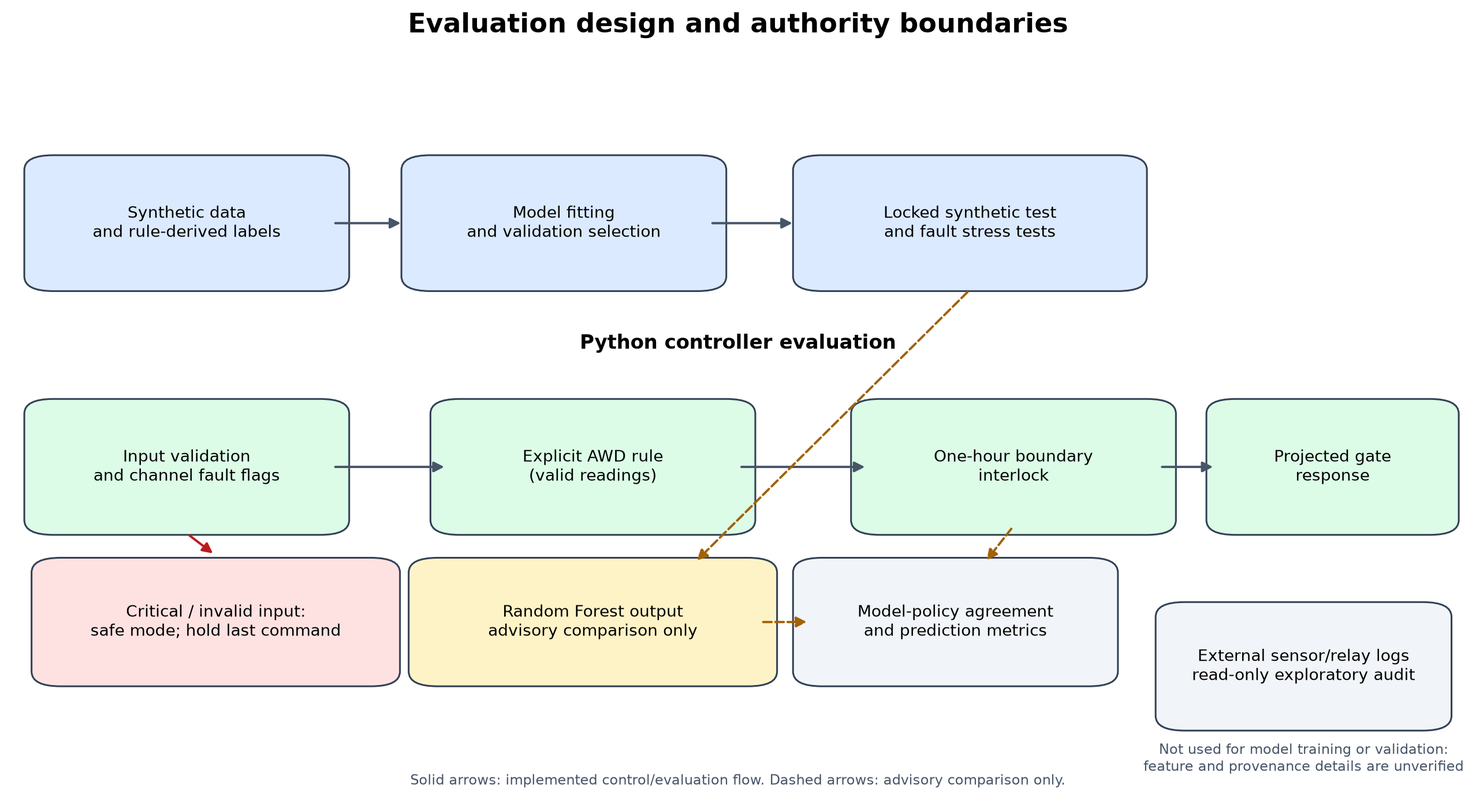
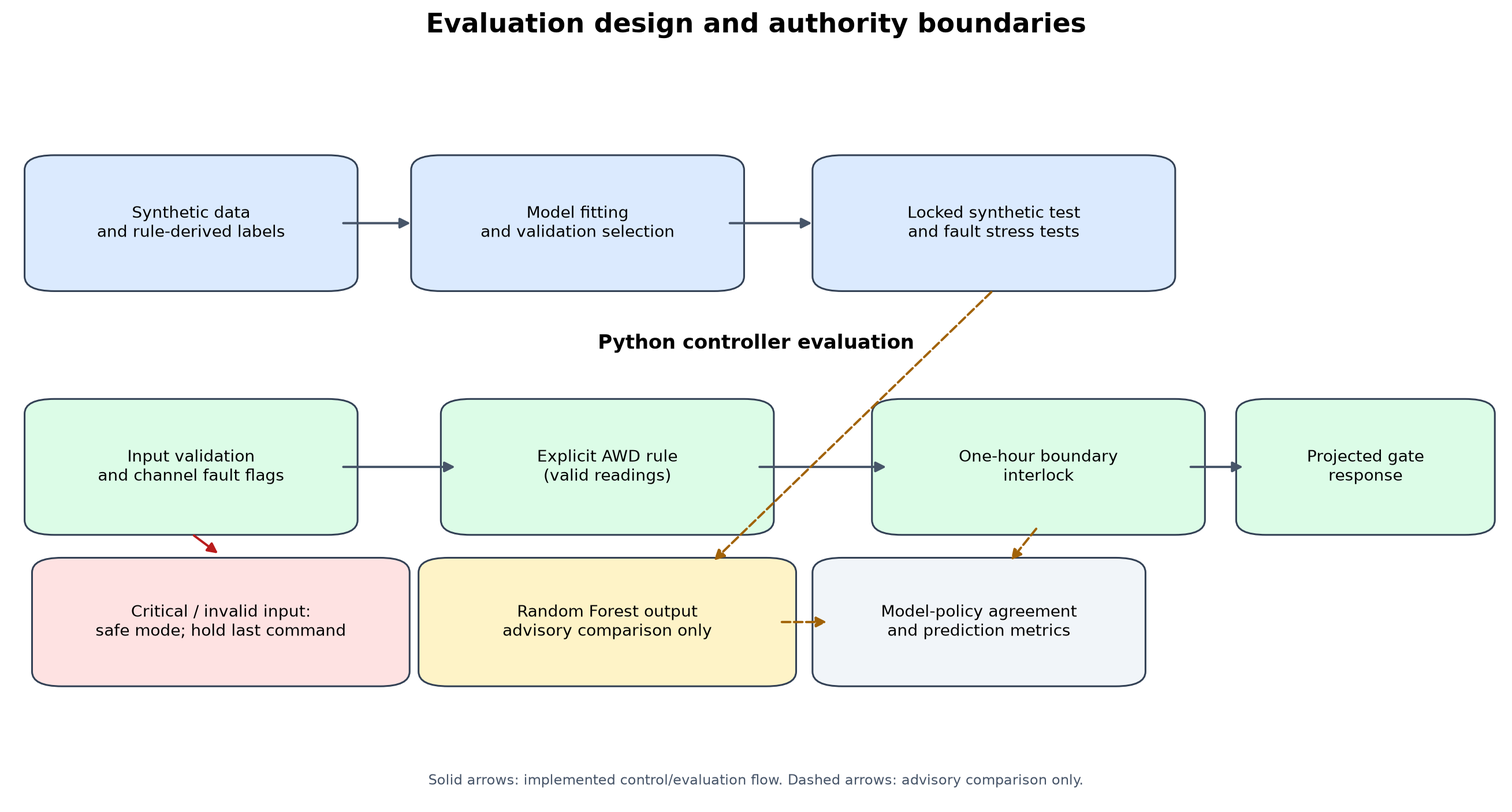
Restructure thesis external-data sections

diff --git a/src/generate_chapter3_figures.py b/src/generate_chapter3_figures.py
@@ -1,4 +1,4 @@
-"""Generate supplementary Chapter 3 figures from saved experiment summaries."""
+"""Generate supplementary Chapter 2 and Chapter 3 figures from saved summaries."""
 
 from __future__ import annotations
 
@@ -16,6 +16,7 @@ from matplotlib.patches import FancyArrowPatch, FancyBboxPatch
 
 ROOT = Path(__file__).resolve().parents[1]
 DEFAULT_OUTPUT_DIR = ROOT / "reports" / "chapter3_tuning"
+DEFAULT_CHAPTER2_OUTPUT_DIR = ROOT / "reports" / "chapter2_methodology"
 DEFAULT_AUDIT_DIR = ROOT / "reports" / "external_irrigation"
 
 
@@ -69,7 +70,7 @@ def plot_evaluation_architecture(output_path: Path) -> None:
     synthetic = "#dbeafe"
     controller = "#dcfce7"
     advisory = "#fef3c7"
-    external = "#f1f5f9"
+    metrics = "#f1f5f9"
     safe = "#fee2e2"
 
     add_box(ax, (0.12, 0.78), "Synthetic data\nand rule-derived labels", synthetic, 0.2, 0.16)
@@ -88,7 +89,7 @@ def plot_evaluation_architecture(output_path: Path) -> None:
     add_arrow(ax, (0.79, 0.45), (0.83, 0.45))
 
     add_box(ax, (0.4, 0.24), "Random Forest output\nadvisory comparison only", advisory, 0.23, 0.15)
-    add_box(ax, (0.65, 0.24), "Model-policy agreement\nand prediction metrics", external, 0.2, 0.15)
+    add_box(ax, (0.65, 0.24), "Model-policy agreement\nand prediction metrics", metrics, 0.2, 0.15)
     add_arrow(ax, (0.66, 0.69), (0.47, 0.32), color="#a16207", linestyle="--")
     add_arrow(ax, (0.515, 0.24), (0.55, 0.24), color="#a16207", linestyle="--")
     add_arrow(ax, (0.69, 0.37), (0.67, 0.32), color="#a16207", linestyle="--")
@@ -96,16 +97,6 @@ def plot_evaluation_architecture(output_path: Path) -> None:
     add_box(ax, (0.14, 0.24), "Critical / invalid input:\nsafe mode; hold last command", safe, 0.23, 0.15)
     add_arrow(ax, (0.12, 0.36), (0.14, 0.33), color="#b91c1c")
 
-    add_box(ax, (0.89, 0.18), "External sensor/relay logs\nread-only exploratory audit", "#f1f5f9", 0.18, 0.15)
-    ax.text(
-        0.89,
-        0.055,
-        "Not used for model training or validation:\nfeature and provenance details are unverified",
-        ha="center",
-        va="center",
-        fontsize=8,
-        color="#475569",
-    )
     ax.text(
         0.5,
         0.02,
@@ -226,14 +217,22 @@ def plot_external_audit(audit_dir: Path, output_path: Path) -> None:
 def main() -> None:
     parser = argparse.ArgumentParser(description=__doc__)
     parser.add_argument("--output-dir", type=Path, default=DEFAULT_OUTPUT_DIR)
+    parser.add_argument(
+        "--chapter2-output-dir", type=Path, default=DEFAULT_CHAPTER2_OUTPUT_DIR
+    )
     parser.add_argument("--audit-dir", type=Path, default=DEFAULT_AUDIT_DIR)
     args = parser.parse_args()
     args.output_dir.mkdir(parents=True, exist_ok=True)
+    args.chapter2_output_dir.mkdir(parents=True, exist_ok=True)
     plot_evaluation_architecture(
         args.output_dir / "Figure_3_7_evaluation_architecture.png"
     )
-    plot_external_audit(args.audit_dir, args.output_dir / "Figure_3_8_external_data_audit.png")
-    print(f"Supplementary Chapter 3 figures written to {args.output_dir}")
+    plot_external_audit(
+        args.audit_dir,
+        args.chapter2_output_dir / "Figure_2_1_external_data_audit.png",
+    )
+    print(f"Supplementary Chapter 3 figure written to {args.output_dir}")
+    print(f"Chapter 2 audit figure written to {args.chapter2_output_dir}")
 
 
 if __name__ == "__main__":

diff --git a/chapter3_results_and_discussions.md b/chapter3_results_and_discussions.md
@@ -2,7 +2,7 @@
 
 # RESULTS AND DISCUSSION
 
-This chapter presents the results in relation to SOP 1–SOP 6: dataset and model performance, controlled sensor-fault stress tests, projected AWD boundary behavior, controller software checks, and a staged quality-assurance plan. The study's engineering contribution is a reproducible Python prototype that keeps the Random Forest advisory separate from an explicit AWD policy, routes faults according to the policy's input requirements, and compares projected boundary outcomes under documented assumptions. The chapter also reports two exploratory external-data analyses and distinguishes them from the primary model evaluation.
+This chapter presents the results in relation to SOP 1–SOP 6: dataset and model performance, controlled sensor-fault stress tests, projected AWD boundary behavior, controller software checks, and a staged quality-assurance plan. The study's engineering contribution is a reproducible Python prototype that keeps the Random Forest advisory separate from an explicit AWD policy, routes faults according to the policy's input requirements, and compares projected boundary outcomes under documented assumptions.
 
 The evidence is organized by what each evaluation can establish. The generated benchmark measures model behavior against its rule-derived target; controlled perturbations compare responses to specified fault profiles; and one-hour projections compare controller paths under simulated actuator rates. These results provide a repeatable basis for software testing and identify practical next steps for verification. Field effectiveness, ecological or epidemiological outcomes, and physical ESP32 performance require separate measurements and are not outcomes of the present experiments.
 
@@ -187,57 +187,23 @@ The habitat-risk criteria represent configured environmental conditions relevant
 
 ## 3.4 Controller Logic and Embedded Demonstrator Status (SOP 5)
 
-The controller separates three concerns: input validity, the rule used to request an action, and the interlock that evaluates a one-hour projected depth. Water depth is treated as critical at every crop stage; soil moisture is critical outside flowering because the configured rule uses it there. A fault in either critical input enters safe mode and holds the previous gate command. If only a channel not used by the policy is flagged, the rule can continue in degraded mode. The Random Forest supplies an advisory comparison and does not command the simulated gate. For valid rule inputs, the interlock rejects actions projected to cross a configured limit and selects the smaller projected violation if neither option remains within limits. Figure 3.7 summarizes this evaluation design, including the separate external-data audit.
+The controller separates three concerns: input validity, the rule used to request an action, and the interlock that evaluates a one-hour projected depth. Water depth is treated as critical at every crop stage; soil moisture is critical outside flowering because the configured rule uses it there. A fault in either critical input enters safe mode and holds the previous gate command. If only a channel not used by the policy is flagged, the rule can continue in degraded mode. The Random Forest supplies an advisory comparison and does not command the simulated gate. For valid rule inputs, the interlock rejects actions projected to cross a configured limit and selects the smaller projected violation if neither option remains within limits. Figure 3.7 summarizes this evaluation design.
 
-![Figure 3.7. Evaluation and controller architecture, showing the advisory model, policy/interlock path, safe-mode route, and isolated external-data audit](reports/chapter3_tuning/Figure_3_7_evaluation_architecture.png)
+![Figure 3.7. Evaluation and controller architecture, showing the advisory model, policy/interlock path, and safe-mode route](reports/chapter3_tuning/Figure_3_7_evaluation_architecture.png)
 
 The clean and channel-isolated comparisons demonstrate how the implemented components behave under their test assumptions. On the locked synthetic test, policy-controlled projection reduced violations from 59 to 9 on clean inputs. Fault-routing results show continued degraded-mode operation for faults in noncritical channels, while critical-channel faults enter safe mode. In the combined critical-input simulation, holding the previous command produced 120 projected violations. This provides a concrete next engineering task: evaluate a site-specific fallback using verified sensor and hydraulic behavior.
 
-Twenty controller/model tests passed, covering deterministic and channel-specific corruption, generated-seed consistency, policy/label consistency, threshold selection, predictor threshold handling, stale and invalid readings, critical and noncritical fault routing, repeated-value detection, advisory model behavior, and the one-hour interlock. Six additional tests cover parsing, timestamp ordering, recent-value pairing, gap summaries, and read-only audit report generation for the external time series. The combined focused run passed all 26 tests, verifying the specified software behavior and audit cases.
+Twenty controller/model tests passed, covering deterministic and channel-specific corruption, generated-seed consistency, policy/label consistency, threshold selection, predictor threshold handling, stale and invalid readings, critical and noncritical fault routing, repeated-value detection, advisory model behavior, and the one-hour interlock.
 
 The `wokwi/` PlatformIO project was compiled successfully and run in the Wokwi ESP32 simulator. At startup, the firmware executed 12 labeled checks: reset behavior; low-depth, upper-limit, and flowering interlock cases; stale-reading and fault-flag safe mode; and the three-reading frozen-depth check, with resets between independent cases. All 12 reported `DEMO_CHECK PASS`, and the serial output showed the expected gate and safe-mode states. The diagram also includes a virtual servo configured to represent the gate flap, with closed and open states mapped to 0° and 90°, respectively; the servo is a visual indicator, not a calibrated model of gate position or physical actuator performance. The requested gate action and sensor reading remain serial-injected test inputs; the Random Forest is not running on the ESP32. Physical sensors, actuator response, and field operation were not tested. Bench testing with physical components remains a subsequent validation step.
 
 The prototype explores sensor-informed gate support. Operator workflow and unattended operation are part of later evaluation stages that depend on hardware integration, reliable communications, actuator safeguards, manual override, and maintenance procedures.
 
-## 3.5 Supplementary External-Data Analyses
+## 3.5 CRISP-ML(Q) Quality Assurance and Staged Validation Plan (SOP 6)
 
-### 3.5.1 Exploratory audit of the supplied irrigation-control logs
+The controlled fault levels provide repeatable inputs for the next quality-assurance stage. Table 3.8 translates the observed response patterns into candidate bench checks and safeguards. The injection percentages support reproducible comparisons in this simulator; defining field tolerances or a recalibration schedule requires measured sensor error against a calibrated reference.
 
-A separate quality audit examined the three supplied time series without using them for model training or evaluation. The logs contain 4,293 moisture records, 17,411 flow-meter records, and 17,427 binary relay records from July 12 to September 16, 2022. The relay stream contains 118 adjacent-record state changes. A preceding moisture reading no more than 30 minutes old was available for 17,179 relay records (98.6%). The flow-meter values are monotonic in the supplied file; that pattern alone does not confirm whether they are cumulative or establish their units.
-
-All three streams contain long gaps. Using reference intervals inferred from the observed cadence (approximately 20 minutes for moisture and 5 minutes for flow and relay; not specified in source metadata), the audit counted 122, 144, and 138 gaps respectively that exceeded 1.5 times those references. The longest gaps were approximately 63 hours. Figure 3.8 presents stream counts, typical intervals, gap counts, and descriptive moisture ranges paired with recorded relay values.
-
-![Figure 3.8. Record counts, observed sampling intervals, long gaps, and moisture summaries by recorded relay value in the user-supplied logs](reports/chapter3_tuning/Figure_3_8_external_data_audit.png)
-
-These findings provide preliminary time-series quality and alignment summaries. The logs do not contain the current classifier's required feature set, and their source, site/crop context, measurement units, relay-state meaning, and flow-meter semantics remain unverified. Moisture summaries by recorded relay value are descriptive associations, useful for data review but not for causal conclusions, control thresholds, or agronomic safety claims. The separate audit outputs are in `reports/external_irrigation/`; they can be regenerated with `python -m src.evaluate_external_irrigation_data`.
-
-### 3.5.2 Exploratory external soil-moisture forecasting benchmark
-
-As a separate exploratory analysis, one-day-ahead Water Content forecasts were evaluated using the public [it4lia/soil_moisture_dataset](https://huggingface.co/datasets/it4lia/soil_moisture_dataset), produced by Fondazione Bruno Kessler's OpenIoT research unit in Trentino, Italy. This benchmark is distinct from the gate-action classifier and controller: it uses a continuous moisture target, not `AWD_Gate_Action`, and its records were not used to train or evaluate the project's Random Forest. Exact one-, two-, and seven-day lag readings and annual day-of-year features were used; each consortium was split chronologically, and XGBoost was compared with one-day persistence and a seven-day-naive baseline. The table reports the held-out test results. MAE and RMSE are in the dataset's reported value scale.
-
-**Table 3.8. One-day-ahead external soil-moisture forecast performance**
-
-| Test cohort | Model / baseline | Test records | MAE | RMSE | R-squared |
-|---|---|---:|---:|---:|---:|
-| Consortium 0 | XGBoost | 760 | 0.194 | 0.692 | 0.951 |
-| Consortium 0 | Persistence (1 day) | 760 | 0.172 | 0.768 | 0.940 |
-| Consortium 0 | Seven-day naive | 760 | 0.425 | 1.134 | 0.869 |
-| Consortium 2 | XGBoost | 576 | 0.655 | 1.250 | 0.967 |
-| Consortium 2 | Persistence (1 day) | 576 | 0.517 | 1.102 | 0.974 |
-| Consortium 2 | Seven-day naive | 576 | 1.949 | 2.775 | 0.835 |
-| Pooled test records | XGBoost | 1,336 | 0.393 | 0.973 | — |
-| Pooled test records | Persistence (1 day) | 1,336 | 0.321 | 0.927 | — |
-| Pooled test records | Seven-day naive | 1,336 | 1.082 | 2.013 | — |
-
-Performance was mixed by cohort. XGBoost had a lower RMSE than persistence in consortium 0, but higher MAE; in consortium 2 it was worse than persistence on both MAE and RMSE. Across the pooled test records, persistence had lower MAE and RMSE than XGBoost. Pooled R-squared is omitted because between-consortium differences in measurement levels can make it misleading. The comparison therefore does not show a consistent advantage for XGBoost, and it does not demonstrate improved gate decisions, controller safety, or transfer to Philippine rice paddies. It is an external forecasting benchmark only, not validation of the study's primary model or AWD policy.
-
-The dataset card identifies the source data as CC BY-NC-ND 4.0. The dataset files and model weights are not reproduced in this chapter; confirm institutional requirements for attribution and license handling before circulating the thesis. Experiment details and reproducibility instructions are in `experiments/irrigation_forecasting/README.md`; the locally generated metrics are in `experiments/irrigation_forecasting/outputs/forecast_metrics.csv`.
-
-## 3.6 CRISP-ML(Q) Quality Assurance and Staged Validation Plan (SOP 6)
-
-The controlled fault levels provide repeatable inputs for the next quality-assurance stage. Table 3.9 translates the observed response patterns into candidate bench checks and safeguards. The injection percentages support reproducible comparisons in this simulator; defining field tolerances or a recalibration schedule requires measured sensor error against a calibrated reference.
-
-**Table 3.9. TFCST evidence and candidate QA actions for further testing**
+**Table 3.8. TFCST evidence and candidate QA actions for further testing**
 
 | Condition / measured evidence | QA test focus | Candidate engineering response |
 |---|---|---|
@@ -273,10 +239,8 @@ For SOP 3, the ten-trial fault tests provide a response profile across four corr
 
 For SOP 5, Python software tests and a completed Wokwi run document the advisory-model/policy separation, channel-aware routing, interlock behavior, and corresponding firmware checks. The Wokwi startup suite reported 12 of 12 checks passing for the tested virtual-ESP32 cases. A virtual servo is included in the circuit as a gate-flap visual indicator and follows the firmware's open/closed state; this does not model real gate mechanics. Calibrated bench testing with physical sensors and an actuator remains the next validation stage.
 
-Separately, the supplementary external-data analyses provide data-quality and forecasting context. In the irrigation-log audit, 98.6% of relay records had a preceding moisture reading within 30 minutes; the streams also contain long gaps and have unverified source and channel definitions. They were not used for model training or scoring. In the Trentino benchmark, persistence had lower pooled MAE and RMSE than XGBoost on 1,336 held-out soil-moisture records. Neither external analysis evaluates the gate-action model or establishes AWD control performance.
-
-For SOP 6, the measured patterns are translated into candidate QA checks and a staged path from software verification to calibrated bench testing and supervised evaluation. The combined focused controller/model and audit run passed 26 tests; the isolated forecasting suite passed two additional tests. Together, the chapter provides reproducible results, comparisons, figures, and concrete follow-on tests. Its findings support the prototype's software and simulation contributions while keeping field, agronomic, ecological, and public-health claims tied to evidence that remains to be collected.
+For SOP 6, the measured patterns are translated into candidate QA checks and a staged path from software verification to calibrated bench testing and supervised evaluation. The focused controller/model suite passed 20 tests. Together, the chapter provides reproducible results, comparisons, figures, and concrete follow-on tests. Its findings support the prototype's software and simulation contributions while keeping field, agronomic, ecological, and public-health claims tied to evidence that remains to be collected.
 
 ## Reproducibility
 
-The chronological experiment can be rerun using `python src/chapter3_experiments.py --repeats 10`; its outputs are under `reports/chapter3_experiments/`. The validation-tuned experiment can be rerun using `python -m src.tune_gate_model --repeats 10`; its model, tables, and figures are under `reports/chapter3_tuning/`. The tuning procedure uses generated seeds 42–45 for training, seed 46 for validation, and seed 47 for the locked test. Sensor corruption is tested at 5–30% in 5-point increments with ten repeats per condition. The external log audit is regenerated with `python -m src.evaluate_external_irrigation_data`. The separate soil-moisture benchmark can be rerun using `python -m experiments.irrigation_forecasting.download_data` followed by `python -m experiments.irrigation_forecasting.evaluate` in its dedicated environment; see `experiments/irrigation_forecasting/README.md`. Supplementary figures are generated with `python -m src.generate_chapter3_figures` after the audit outputs exist. One-hour actuator response and AWD boundaries are the configured assumptions recorded with the experiment outputs. The ESP32 firmware is in `wokwi/`; it builds with the PlatformIO `esp32dev` environment and runs through the Wokwi extension. Its startup checks print individual `DEMO_CHECK` results to the serial output. These virtual results do not replace physical bench testing.
+The chronological experiment can be rerun using `python src/chapter3_experiments.py --repeats 10`; its outputs are under `reports/chapter3_experiments/`. The validation-tuned experiment can be rerun using `python -m src.tune_gate_model --repeats 10`; its model, tables, and figures are under `reports/chapter3_tuning/`. The tuning procedure uses generated seeds 42–45 for training, seed 46 for validation, and seed 47 for the locked test. Sensor corruption is tested at 5–30% in 5-point increments with ten repeats per condition. The supplied-log audit described in Chapter 2 is regenerated with `python -m src.evaluate_external_irrigation_data`. The separate soil-moisture benchmark is summarized in Appendix B and can be rerun using `python -m experiments.irrigation_forecasting.download_data` followed by `python -m experiments.irrigation_forecasting.evaluate` in its dedicated environment; see `experiments/irrigation_forecasting/README.md`. Supplementary figures, including the Chapter 2 audit figure, are generated with `python -m src.generate_chapter3_figures` after the audit outputs exist. One-hour actuator response and AWD boundaries are the configured assumptions recorded with the experiment outputs. The ESP32 firmware is in `wokwi/`; it builds with the PlatformIO `esp32dev` environment and runs through the Wokwi extension. Its startup checks print individual `DEMO_CHECK` results to the serial output. Full Python scripts, automated tests, notebook code cells, and Wokwi firmware listings are compiled in `appendices.md`. These virtual results do not replace physical bench testing.

diff --git a/chapter4_scr.md b/chapter4_scr.md
@@ -2,7 +2,7 @@
 
 # SUMMARY, CONCLUSIONS, AND RECOMMENDATIONS
 
-This chapter summarizes the development and evaluation of the Rice Paddy Alternate Wetting and Drying (AWD) Monitoring and Snail Habitat Risk Management System. It presents conclusions drawn from the generated-data experiments, sensor-fault tests, controller simulations, software checks, and supplementary external-data analyses. Recommendations are directed toward strengthening the prototype through staged, measurable validation.
+This chapter summarizes the development and evaluation of the Rice Paddy Alternate Wetting and Drying (AWD) Monitoring and Snail Habitat Risk Management System. It presents conclusions drawn from the generated-data experiments, sensor-fault tests, controller simulations, and software checks. Recommendations are directed toward strengthening the prototype through staged, measurable validation.
 
 ## 4.1 Summary of the Study
 
@@ -16,9 +16,9 @@ The selected model was evaluated under Gaussian noise, impulse spikes, sensor dr
 
 The controller experiments compared direct model actions with the rule-based policy and interlock. On the clean locked test, the one-hour simulation recorded 59 projected boundary violations for direct model actions and 9 for policy-controlled actions. Results under fault injection depended on the fault type. In the tested Gaussian-noise and drift scenarios, critical-input safe mode produced 120 projected violations; under spike and freezing scenarios, the policy-controlled path produced fewer projected violations than the direct model at the evaluated intensities. Channel-level tests also exercised degraded-mode routing for faults in channels not used by the policy. All projected outcomes depend on the configured AWD limits and assumed actuator rates.
 
-Focused software tests evaluated model and controller behavior, fault routing, input checks, the interlock, and the external time-series audit. The controller/model and audit run passed 26 tests. The PlatformIO firmware also compiled successfully and was run in the Wokwi ESP32 simulator; its startup suite reported all 12 labeled controller checks passing. These checks cover interlock examples, stale and fault-flagged readings, and repeated-reading safe mode. A virtual servo is included in the diagram and is mapped to the firmware's open/closed state as a gate-flap indicator. This verifies neither physical actuator performance nor gate mechanics; physical sensor and actuator performance remains for bench testing.
+Focused software tests evaluated model and controller behavior, fault routing, input checks, and the interlock; the controller/model suite passed 20 tests. The separate six-test, read-only log-audit suite is described in Chapter 2. The PlatformIO firmware also compiled successfully and was run in the Wokwi ESP32 simulator; its startup suite reported all 12 labeled controller checks passing. These checks cover interlock examples, stale and fault-flagged readings, and repeated-reading safe mode. A virtual servo is included in the diagram and is mapped to the firmware's open/closed state as a gate-flap indicator. This verifies neither physical actuator performance nor gate mechanics; physical sensor and actuator performance remains for bench testing.
 
-Two supplementary analyses used external records without incorporating them into training or scoring of the primary gate-action model. The user-supplied irrigation logs were audited for timestamps, gaps, and moisture/relay alignment. A preceding moisture record within 30 minutes was available for 98.6% of relay records, but the source and measurement semantics require confirmation. Separately, a one-day-ahead soil-moisture forecast benchmark using records from Trentino, Italy compared XGBoost with simple baselines on 1,336 held-out records. Persistence had lower pooled MAE and RMSE than XGBoost. This external benchmark concerns moisture forecasting, not gate-action prediction or AWD control.
+Chapter 2 documents the supplied irrigation-log audit and why those records could not be used as verified training or validation data for the current gate-action classifier. Appendix B reports a separate Trentino soil-moisture forecasting benchmark. Both are supplementary: neither evaluates or validates the primary gate-action model or AWD controller.
 
 ## 4.2 Conclusions
 
@@ -34,7 +34,7 @@ Based on the results and within the scope of the study, the following conclusion
 
 5. **The software prototype's routing and advisory/policy separation were exercised through focused tests and a virtual ESP32 run.** Twenty-six Python controller/model and audit tests passed, and the Wokwi startup suite passed all 12 labeled checks. A virtual servo is mapped to the open/closed state as a visual gate-flap indicator. These results establish software and simulated firmware behavior for the specified inputs and assumptions; physical actuator performance and an operationally approved field fallback require further evaluation.
 
-6. **The external-data analyses contribute supplementary context, not primary-model validation.** The irrigation logs support preliminary data-quality and alignment review, subject to provenance and semantic verification. In the separate Trentino forecasting benchmark, persistence outperformed XGBoost on pooled MAE and RMSE. Neither analysis demonstrates improvement to the gate-action classifier or validates AWD management in Philippine rice fields.
+6. **The external datasets do not validate the primary model.** The supplied logs lack verified provenance and do not provide the current classifier's required feature set and verified action labels. The Trentino forecasting experiment is a separate moisture-prediction task; it only motivates future evaluation of forecasting as a possible complement or alternative to rule-derived decisions after reliable local measurements and verified gate-action labels are available. It does not show that replacement is feasible or safe. Both analyses are supporting context only.
 
 7. **The study provides a structured engineering basis for further development.** Its reproducible benchmark, model comparisons, fault profiles, controller simulations, and staged testing recommendations can guide implementation and data collection. Claims about field effectiveness, snail populations, schistosomiasis transmission, or other ecological outcomes require dedicated empirical studies.
 
@@ -44,7 +44,7 @@ Based on the conclusions, the following actions are recommended:
 
 1. **Extend embedded verification in stages.** Preserve the successful PlatformIO build and Wokwi run as a software-simulation baseline. Verify the virtual servo visibly follows the open/closed state, and repeat documented input cases when firmware changes. Then conduct bench tests with calibrated sensors and the intended actuator, recording commanded and observed gate states, sensor readings, timing, interlock decisions, and manual interventions.
 
-2. **Define and test a site-specific critical-input fallback.** Consult the relevant agricultural and engineering stakeholders to specify responses to unavailable, stale, invalid, or fault-flagged water-depth and soil-moisture readings. Include manual override, communications loss, actuator failure, command-rate limits, and restart behavior. Test candidate responses against measured sensor and hydraulic behavior before considering operational use.
+2. **Replace the provisional hold-last-command response only after approving a site-specific fallback.** The current prototype still holds the previous gate command when a critical input is invalid; the fault simulation recorded 120 projected boundary violations under that behavior and its configured assumptions. Do not assume that forcing the gate open or closed is safe without site-specific agronomic and engineering approval. Have the responsible stakeholders define the response to unavailable, stale, invalid, or fault-flagged readings, including whether manual override is required. Then test the selected policy against measured sensor and hydraulic behavior, communications loss, actuator failure, command-rate limits, and restart conditions before operational use.
 
 3. **Collect representative field measurements before claiming field performance.** Gather time-stamped readings from relevant Philippine rice-paddy conditions, including crop stage, water depth, soil moisture, and verified gate state. Document sensor models, units, calibration, site context, missing intervals, and operating procedures. Use an evaluation period or site independent of model fitting and threshold selection.
 
@@ -52,7 +52,7 @@ Based on the conclusions, the following actions are recommended:
 
 5. **Ground fault tests in measured sensor behavior.** Use calibrated references and controlled bench experiments to express error in engineering units. Test fault detectors separately from oracle fault flags, and assess drift, noise, spikes, freezing, stale readings, and missing data across relevant sensor channels. Treat the current injection percentages as reproducibility settings rather than field tolerances.
 
-6. **Verify external-data provenance and permissions.** Confirm the origin, sensor definitions, units, relay semantics, and site context of the supplied irrigation logs before using them in comparative analyses. Review the Hugging Face dataset's license and institutional requirements before redistributing source data or derived results. Keep external forecasting analyses distinct from gate-action evaluation unless a justified and documented method links the tasks.
+6. **Verify external-data provenance and permissions.** Confirm the origin, sensor definitions, units, relay semantics, and site context of the supplied irrigation logs before using them in comparative analyses. Review the Hugging Face dataset's license and institutional requirements before redistributing source data or derived results. Treat the Trentino forecast as a separate preliminary task; only after reliable, representative local time series and verified gate-action observations are available should forecasting be evaluated as a possible alternative to or complement for rule-derived decisions.
 
 7. **Evaluate ecological outcomes separately if they are part of the research objectives.** A future study of snail habitat or schistosomiasis-related outcomes should define appropriate field observations, sampling procedures, ethical and institutional approvals, and analysis methods. Rule-derived risk labels alone should not be treated as observed snail abundance, infection, or disease prevention.
 

diff --git a/appendices.md b/appendices.md
@@ -1466,7 +1466,7 @@ if __name__ == "__main__":
 Source: `src/generate_chapter3_figures.py`
 
 ```python
-"""Generate supplementary Chapter 3 figures from saved experiment summaries."""
+"""Generate supplementary Chapter 2 and Chapter 3 figures from saved summaries."""
 
 from __future__ import annotations
 
@@ -1484,6 +1484,7 @@ from matplotlib.patches import FancyArrowPatch, FancyBboxPatch
 
 ROOT = Path(__file__).resolve().parents[1]
 DEFAULT_OUTPUT_DIR = ROOT / "reports" / "chapter3_tuning"
+DEFAULT_CHAPTER2_OUTPUT_DIR = ROOT / "reports" / "chapter2_methodology"
 DEFAULT_AUDIT_DIR = ROOT / "reports" / "external_irrigation"
 
 
@@ -1537,7 +1538,7 @@ def plot_evaluation_architecture(output_path: Path) -> None:
     synthetic = "#dbeafe"
     controller = "#dcfce7"
     advisory = "#fef3c7"
-    external = "#f1f5f9"
+    metrics = "#f1f5f9"
     safe = "#fee2e2"
 
     add_box(ax, (0.12, 0.78), "Synthetic data\nand rule-derived labels", synthetic, 0.2, 0.16)
@@ -1556,7 +1557,7 @@ def plot_evaluation_architecture(output_path: Path) -> None:
     add_arrow(ax, (0.79, 0.45), (0.83, 0.45))
 
     add_box(ax, (0.4, 0.24), "Random Forest output\nadvisory comparison only", advisory, 0.23, 0.15)
-    add_box(ax, (0.65, 0.24), "Model-policy agreement\nand prediction metrics", external, 0.2, 0.15)
+    add_box(ax, (0.65, 0.24), "Model-policy agreement\nand prediction metrics", metrics, 0.2, 0.15)
     add_arrow(ax, (0.66, 0.69), (0.47, 0.32), color="#a16207", linestyle="--")
     add_arrow(ax, (0.515, 0.24), (0.55, 0.24), color="#a16207", linestyle="--")
     add_arrow(ax, (0.69, 0.37), (0.67, 0.32), color="#a16207", linestyle="--")
@@ -1564,16 +1565,6 @@ def plot_evaluation_architecture(output_path: Path) -> None:
     add_box(ax, (0.14, 0.24), "Critical / invalid input:\nsafe mode; hold last command", safe, 0.23, 0.15)
     add_arrow(ax, (0.12, 0.36), (0.14, 0.33), color="#b91c1c")
 
-    add_box(ax, (0.89, 0.18), "External sensor/relay logs\nread-only exploratory audit", "#f1f5f9", 0.18, 0.15)
-    ax.text(
-        0.89,
-        0.055,
-        "Not used for model training or validation:\nfeature and provenance details are unverified",
-        ha="center",
-        va="center",
-        fontsize=8,
-        color="#475569",
-    )
     ax.text(
         0.5,
         0.02,
@@ -1694,14 +1685,22 @@ def plot_external_audit(audit_dir: Path, output_path: Path) -> None:
 def main() -> None:
     parser = argparse.ArgumentParser(description=__doc__)
     parser.add_argument("--output-dir", type=Path, default=DEFAULT_OUTPUT_DIR)
+    parser.add_argument(
+        "--chapter2-output-dir", type=Path, default=DEFAULT_CHAPTER2_OUTPUT_DIR
+    )
     parser.add_argument("--audit-dir", type=Path, default=DEFAULT_AUDIT_DIR)
     args = parser.parse_args()
     args.output_dir.mkdir(parents=True, exist_ok=True)
+    args.chapter2_output_dir.mkdir(parents=True, exist_ok=True)
     plot_evaluation_architecture(
         args.output_dir / "Figure_3_7_evaluation_architecture.png"
     )
-    plot_external_audit(args.audit_dir, args.output_dir / "Figure_3_8_external_data_audit.png")
-    print(f"Supplementary Chapter 3 figures written to {args.output_dir}")
+    plot_external_audit(
+        args.audit_dir,
+        args.chapter2_output_dir / "Figure_2_1_external_data_audit.png",
+    )
+    print(f"Supplementary Chapter 3 figure written to {args.output_dir}")
+    print(f"Chapter 2 audit figure written to {args.chapter2_output_dir}")
 
 
 if __name__ == "__main__":
@@ -3387,6 +3386,12 @@ def main() -> None:
 if __name__ == "__main__":
     main()
 ```
+
+### B.3 External Forecast Results and Interpretation
+
+The one-day-ahead benchmark used exact one-, two-, and seven-day lag values with annual day-of-year features and chronological test partitions within two Trentino consortiums. On 1,336 pooled test records, one-day persistence achieved MAE 0.321 and RMSE 0.927, compared with XGBoost MAE 0.393 and RMSE 0.973. Results differed by cohort: XGBoost had lower RMSE but higher MAE than persistence in consortium 0, and higher MAE and RMSE in consortium 2. Pooled R-squared is omitted because cohort-level measurement differences can make it misleading.
+
+This is preliminary evidence that soil-moisture forecasting can be evaluated as a separate task, not evidence that a forecasting model can replace rule-derived gate labels or control an AWD gate. Once reliable local sensor histories and verified gate states are available, forecasting could be investigated as a possible complement or alternative to rule-derived decisions, with appropriate feature definitions and an independent evaluation. The Trentino results do not establish transfer to Philippine rice paddies or show that replacement is feasible or safe. The dataset card lists CC BY-NC-ND 4.0; review its terms and institutional guidance before distributing derived results.
 
 ## Appendix C. Automated Test Scripts
 
